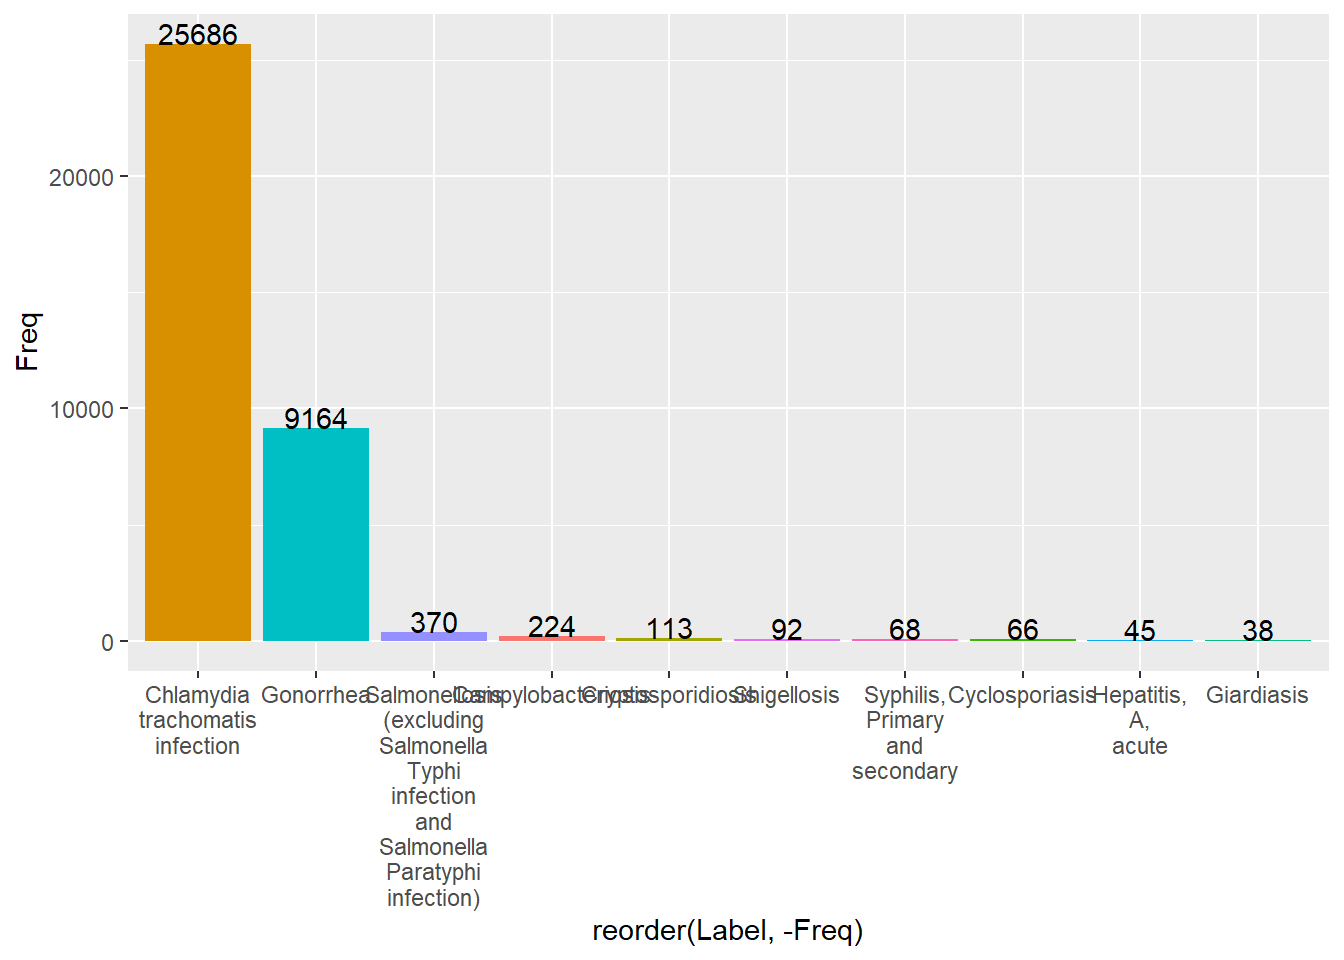
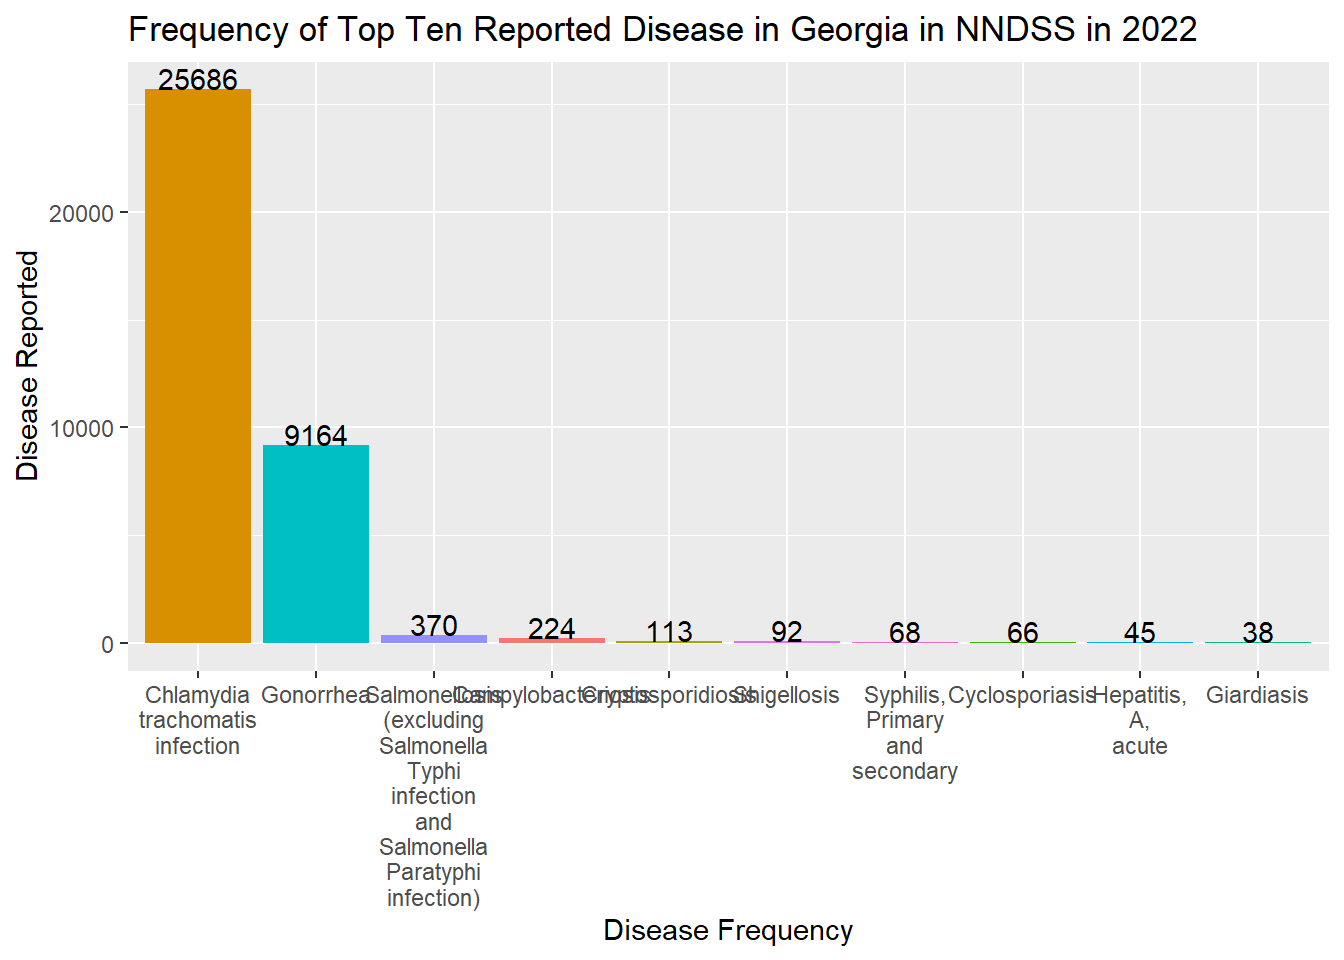
Module 4 Part I Changes
The last graph was missing labs. This fixed it.

diff --git a/docs/dataanalysis_exercise.html b/docs/dataanalysis_exercise.html
@@ -507,27 +507,14 @@ dbl (7): Current MMWR Year, MMWR WEEK, Current week, Previous 52 week Max, C...
 </div>
 <div class="sourceCode cell-code" id="cb23"><pre class="sourceCode r code-with-copy"><code class="sourceCode r"><span id="cb23-1"><a href="#cb23-1" aria-hidden="true" tabindex="-1"></a><span class="co"># Disease Frequency in 2022</span></span>
 <span id="cb23-2"><a href="#cb23-2" aria-hidden="true" tabindex="-1"></a>diseaseincidence1 <span class="sc">%&gt;%</span></span>
-<span id="cb23-3"><a href="#cb23-3" aria-hidden="true" tabindex="-1"></a>  <span class="fu">ggplot</span>(<span class="at">mapping =</span> <span class="fu">aes</span>(<span class="at">x =</span> <span class="fu">reorder</span>(Label, <span class="sc">-</span>Freq), <span class="at">y =</span> Freq, <span class="at">fill =</span> Label)) <span class="sc">+</span> </span>
+<span id="cb23-3"><a href="#cb23-3" aria-hidden="true" tabindex="-1"></a><span class="fu">ggplot</span>(<span class="at">mapping =</span> <span class="fu">aes</span>(<span class="at">x =</span> <span class="fu">reorder</span>(Label, <span class="sc">-</span>Freq), <span class="at">y =</span> Freq, <span class="at">fill =</span> Label)) <span class="sc">+</span> </span>
 <span id="cb23-4"><a href="#cb23-4" aria-hidden="true" tabindex="-1"></a>  <span class="fu">geom_bar</span>(<span class="at">stat =</span> <span class="st">'identity'</span>) <span class="sc">+</span> </span>
 <span id="cb23-5"><a href="#cb23-5" aria-hidden="true" tabindex="-1"></a>  <span class="fu">scale_x_discrete</span>(<span class="at">labels =</span> <span class="cf">function</span>(Label) <span class="fu">str_wrap</span>(Label, <span class="at">width =</span> <span class="dv">6</span>)) <span class="sc">+</span></span>
-<span id="cb23-6"><a href="#cb23-6" aria-hidden="true" tabindex="-1"></a>  <span class="fu">theme</span>(<span class="at">legend.position =</span> <span class="st">"none"</span>) <span class="sc">+</span> <span class="fu">geom_text</span>(<span class="fu">aes</span>(<span class="at">label =</span> Freq), <span class="at">vjust =</span> <span class="dv">0</span>)</span></code><button title="Copy to Clipboard" class="code-copy-button"><i class="bi"></i></button></pre></div>
+<span id="cb23-6"><a href="#cb23-6" aria-hidden="true" tabindex="-1"></a>  <span class="fu">theme</span>(<span class="at">legend.position =</span> <span class="st">"none"</span>) <span class="sc">+</span> <span class="fu">geom_text</span>(<span class="fu">aes</span>(<span class="at">label =</span> Freq), <span class="at">vjust =</span> <span class="dv">0</span>) <span class="sc">+</span></span>
+<span id="cb23-7"><a href="#cb23-7" aria-hidden="true" tabindex="-1"></a>  <span class="fu">labs</span>(<span class="at">x =</span> <span class="st">"Disease Frequency"</span>, <span class="at">y =</span> <span class="st">"Disease Reported"</span>, </span>
+<span id="cb23-8"><a href="#cb23-8" aria-hidden="true" tabindex="-1"></a>       <span class="at">title =</span> <span class="st">"Frequency of Top Ten Reported Disease in Georgia in NNDSS in 2022"</span>)</span></code><button title="Copy to Clipboard" class="code-copy-button"><i class="bi"></i></button></pre></div>
 <div class="cell-output-display">
 <p><img src="dataanalysis_exercise_files/figure-html/unnamed-chunk-2-3.png" class="img-fluid" width="672"></p>
-</div>
-<div class="sourceCode cell-code" id="cb24"><pre class="sourceCode r code-with-copy"><code class="sourceCode r"><span id="cb24-1"><a href="#cb24-1" aria-hidden="true" tabindex="-1"></a>  <span class="fu">labs</span>(<span class="at">x =</span> <span class="st">"Disease Frequency"</span>, <span class="at">y =</span> <span class="st">"Disease Reported"</span>, </span>
-<span id="cb24-2"><a href="#cb24-2" aria-hidden="true" tabindex="-1"></a>       <span class="at">title =</span> <span class="st">"Frequency of Top Ten Reported Disease in Georgia in NNDSS in 2022"</span>)</span></code><button title="Copy to Clipboard" class="code-copy-button"><i class="bi"></i></button></pre></div>
-<div class="cell-output cell-output-stdout">
-<pre><code>$x
-[1] "Disease Frequency"
-
-$y
-[1] "Disease Reported"
-
-$title
-[1] "Frequency of Top Ten Reported Disease in Georgia in NNDSS in 2022"
-
-attr(,"class")
-[1] "labels"</code></pre>
 </div>
 </div>
 </section>
